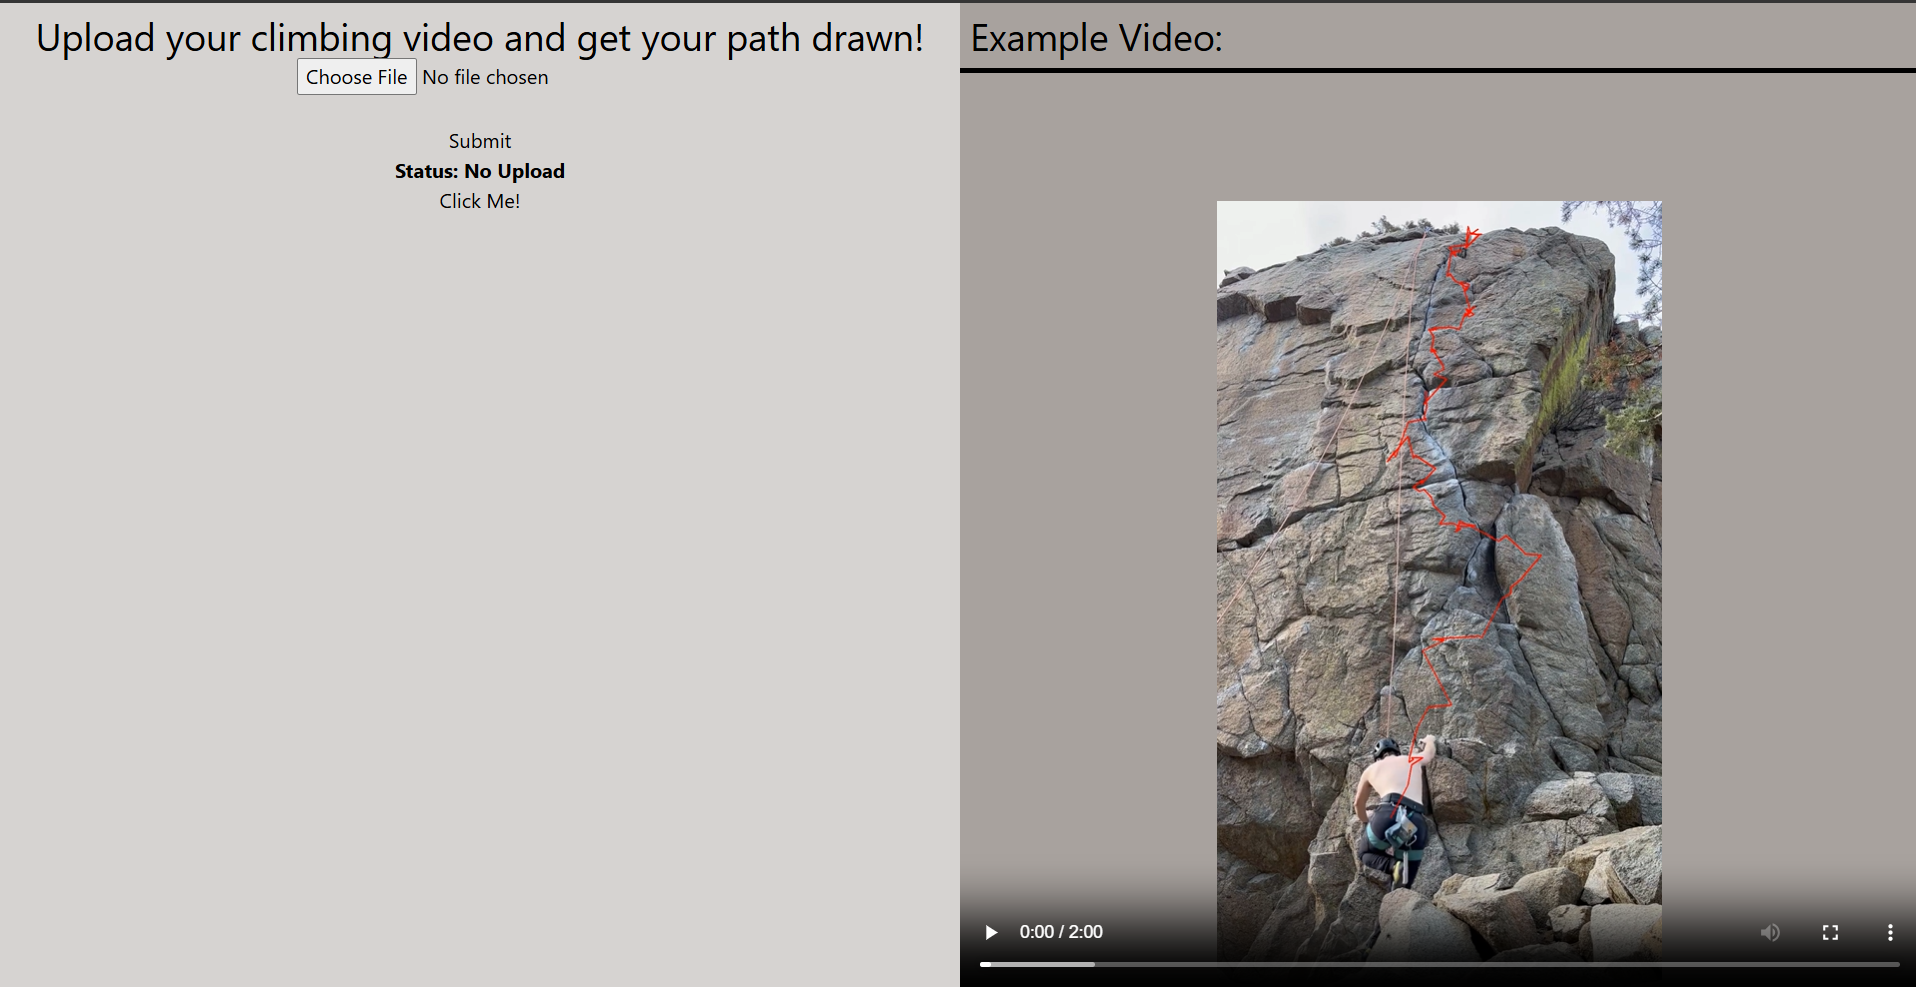
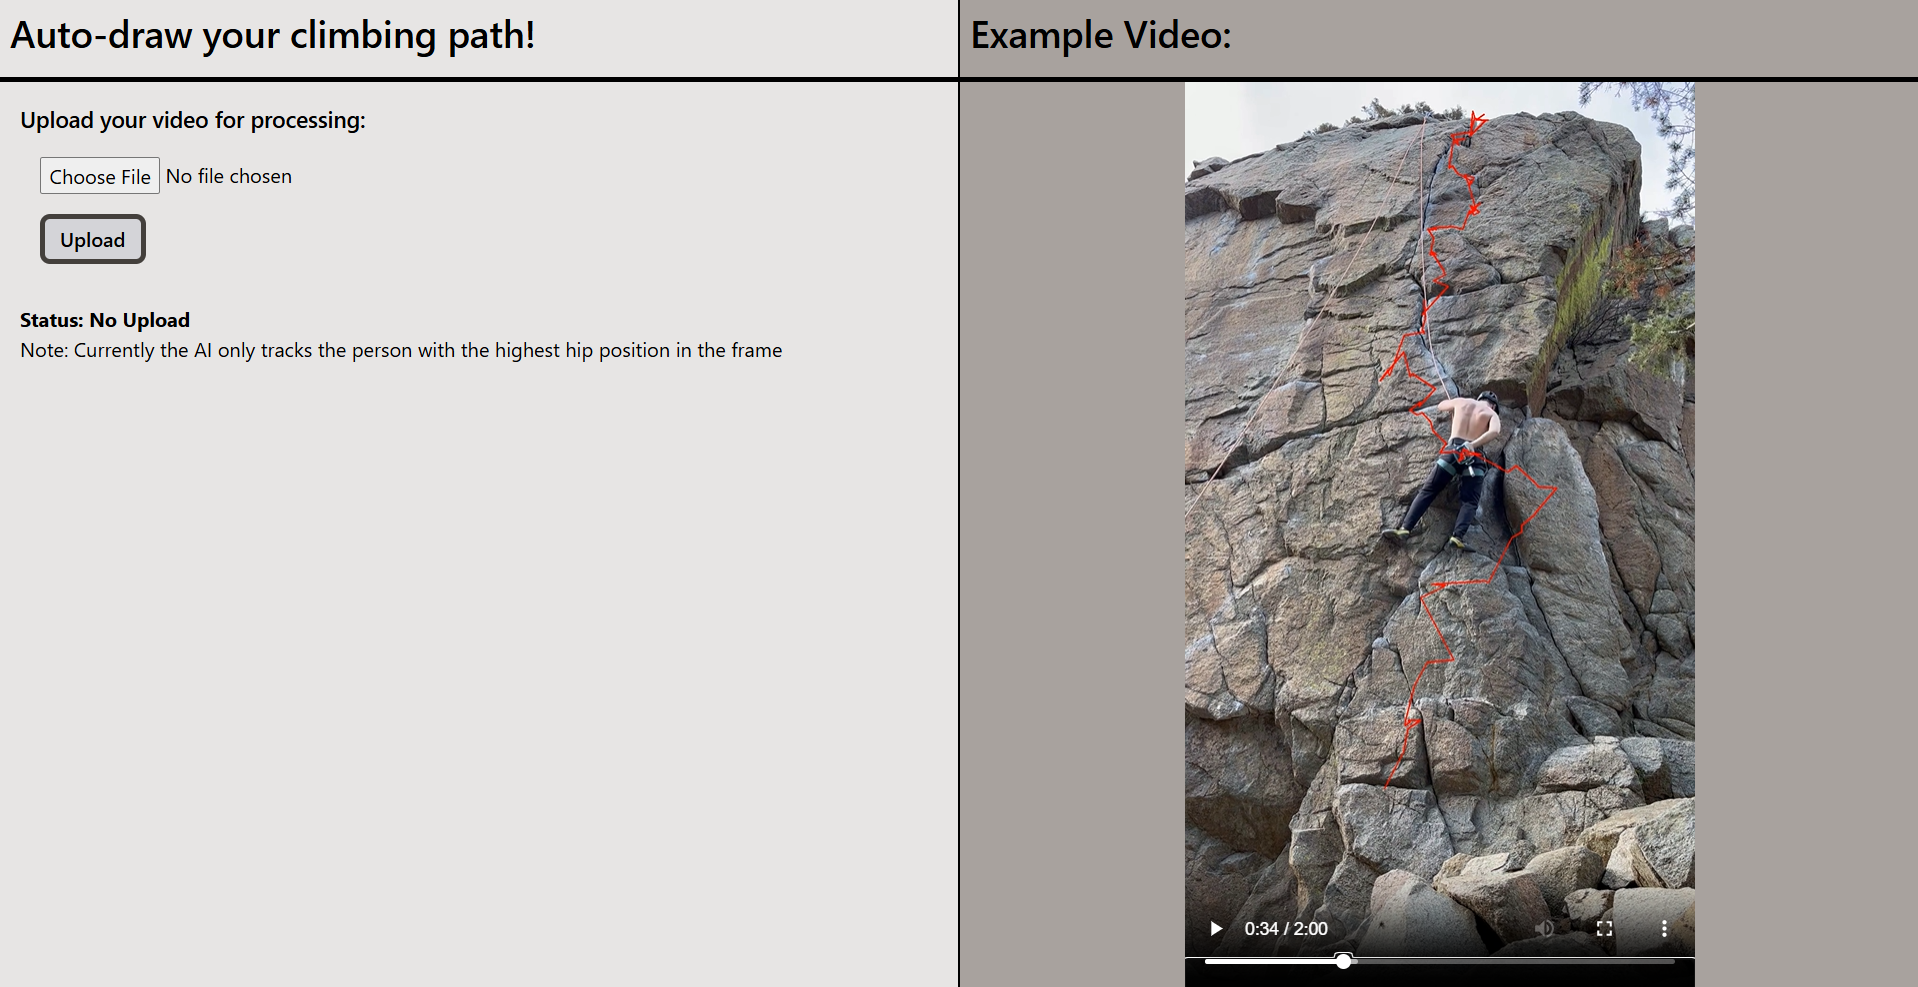
Edited output-generator to persist position json in order to analyze. Additionally updated REEADME with new UI

Changed region(s): [[0.0, 0.0, 1.0, 1.0], [0.0, 0.304, 0.4003, 0.3647], [0.2156, 0.1216, 0.3079, 0.2128]]

diff --git a/data-processing/output-generator/output-generator.py b/data-processing/output-generator/output-generator.py
@@ -79,7 +79,7 @@ def outputWork(uuid):
     os.remove(inputVideoFilepath)
     os.remove(outputVideoFilepath)
     videoInputBlob.delete()
-    jsonBlob.delete()
+    # jsonBlob.delete()
 
 if __name__ == "__main__":
     main()
